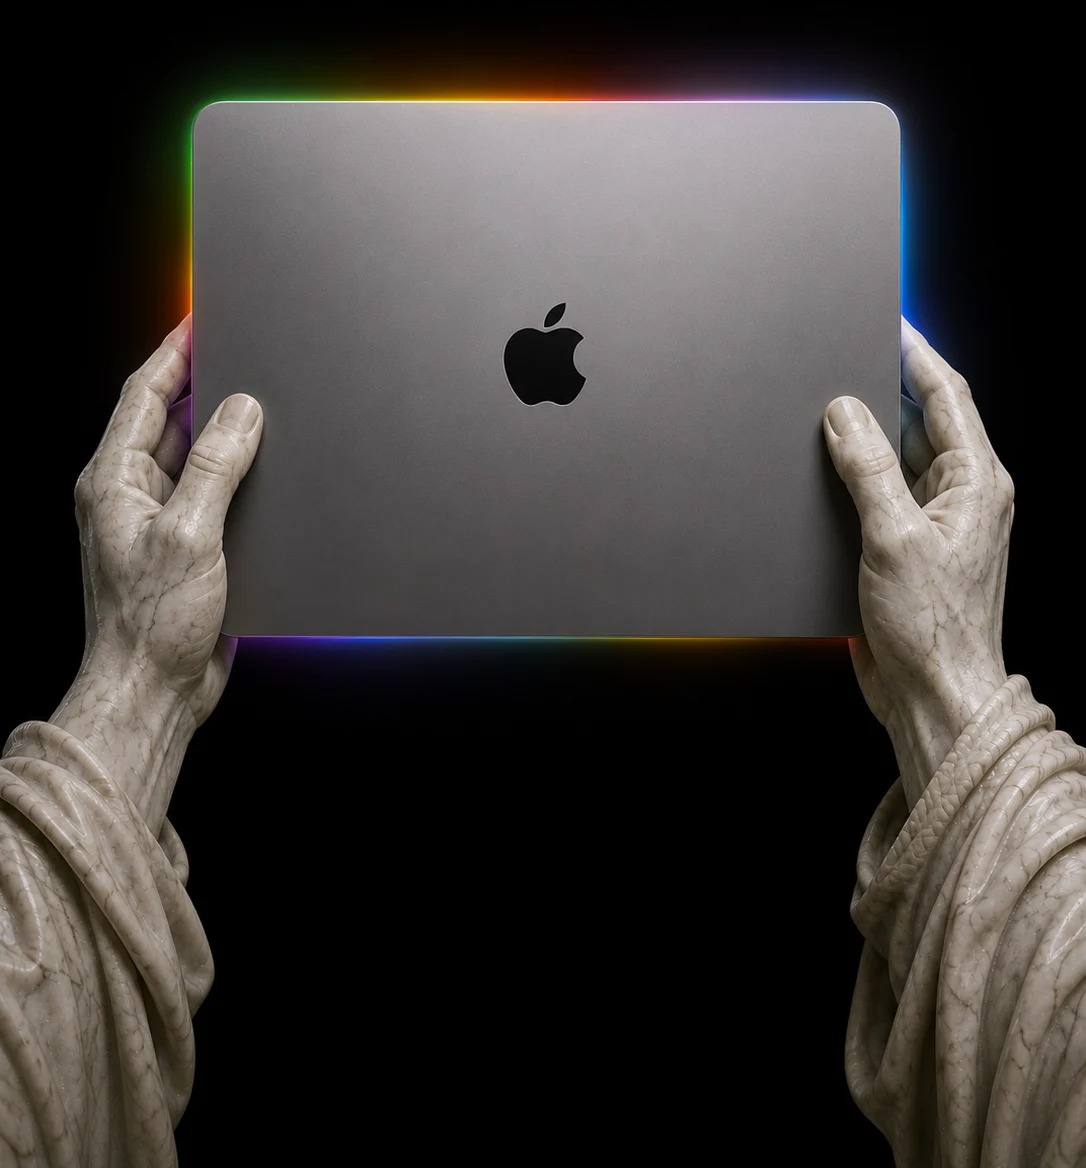
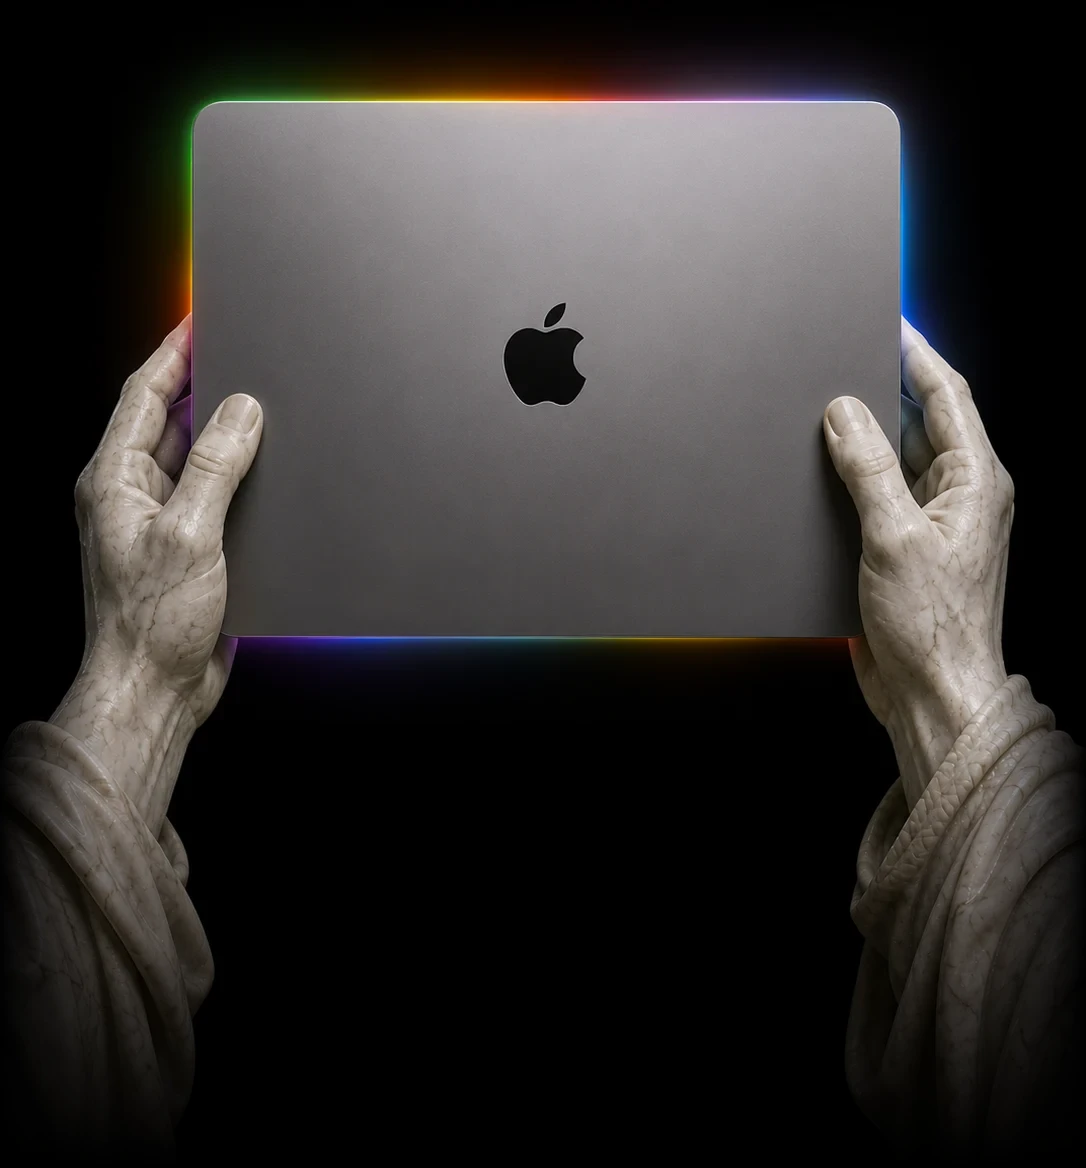
fix(terminal): the hero artwork had hard edges where its frame cut it
The render is cropped by its own frame: the forearms end flat at the bottom and
the robes run into the left and right borders. Under object-cover those cuts
sat off-screen, which is partly why they went unnoticed, but cover also threw
away both hands. Under contain the whole composition survives and the cuts land
in open panel, where a straight line across both arms reads as a broken image
rather than a photograph.

Feathered the bottom and both sides to black instead, so the subject dissolves
into the ground. That also drops the faded region under the duotone pass's
alpha-key threshold (asserted: bottom row 0.00, 95% row 2.16, against 12.75), so
those pixels are keyed away entirely rather than merely darkened — the subject
now floats frameless the way the sign-in statue does.

Moved the anchor from 45% to 60% while there. Centred left the subject high with
a dead lower third; 60% puts it on the eye line and lets the feathered forearms
trail into the floor fade. 75% was tried and pushed too much emptiness above.

Reprocessed from the committed webp rather than the original PNG, which I had
already deleted, so this carries one extra encode (q90). If the source is still
around it is worth regenerating in a single pass.

Changed region(s): [[0.7597, 0.5548, 1.0, 1.0], [0.0, 0.5856, 0.2127, 1.0], [0.9116, 0.4007, 0.942, 0.524]]

diff --git a/apps/terminal/src/components/desktop-statue.tsx b/apps/terminal/src/components/desktop-statue.tsx
@@ -17,7 +17,13 @@
 //      treatment, which also drives the sign-in and onboarding art. modulate()
 //      scales in HSL, so pure black stays pure black and the ground still
 //      alpha-keys cleanly.
-//   3. Encode webp q86 (~59 KB).
+//   3. Feather the bottom and both side edges to black. The render was cut by
+//      its own frame: the forearms end flat at the bottom and the robes run
+//      into the left and right borders. Under `contain` those cuts sit in open
+//      panel and read as a mistake, so they are faded out instead — which also
+//      drops them under the alpha-key threshold, dissolving the subject into
+//      the ground rather than stopping at a hard line.
+//   4. Encode webp q90 (~53 KB).
 // The ground must stay pure black: the pass flood-fills from the borders and
 // keys it to transparent, which is what lets the subject float frameless.
 
@@ -50,10 +56,12 @@ export function DesktopStatueScene({
           nearly square (two hands framing the machine) while this band is a
           narrow column, so cover crops away both hands and leaves an anonymous
           grey slab. Contain keeps the whole gesture; the ground is alpha-keyed
-          to transparent, so the empty band above and below is just panel. */}
+          to transparent, so the empty band above and below is just panel.
+          Sitting at 60% rather than centred puts the subject on the eye line
+          and lets the feathered forearms trail into the floor fade. */}
       <DuotoneImage
         src={statueUrl}
-        className="absolute inset-0 object-contain object-[50%_45%]"
+        className="absolute inset-0 object-contain object-[50%_60%]"
       />
 
       {/* Fade the artwork toward the panel floor, using the (dark-scoped)
